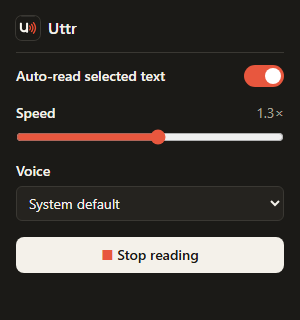
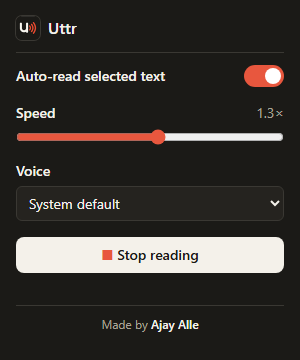
Add author credit (Ajay Alle), bump to v0.1.1
- Popup footer: "Made by Ajay Alle" linking to the GitHub repo
- README: author byline under the title and an Author section
- HOW-TO-INSTALL.txt: author line
- Refreshed popup screenshots

diff --git a/popup/popup.html b/popup/popup.html
@@ -45,6 +45,11 @@
   <!-- Short messages (e.g. "can't run on this page"). role="status" makes screen readers announce them. -->
   <p id="status" class="status" role="status"></p>
 
+  <!-- target="_blank" makes the link open in a new browser tab instead of inside the popup. -->
+  <footer>
+    Made by <a href="https://github.com/ajayalle10/uttr" target="_blank" rel="noopener">Ajay Alle</a>
+  </footer>
+
   <!--
     Manifest V3 forbids inline <script> code for security, so all logic lives
     in separate files. defaults.js must load first because popup.js uses it.

diff --git a/popup/popup.css b/popup/popup.css
@@ -200,6 +200,26 @@ button:hover {
   color: var(--accent);
 }
 
+footer {
+  margin-top: 12px;
+  padding-top: 10px;
+  border-top: 1px solid var(--border);
+  color: var(--muted);
+  font-size: 12px;
+  text-align: center;
+}
+
+footer a {
+  color: var(--text);
+  font-weight: 600;
+  text-decoration: none;
+}
+
+footer a:hover {
+  color: var(--accent);
+  text-decoration: underline;
+}
+
 .status {
   min-height: 1em;
   margin: 8px 0 0;

diff --git a/README.md b/README.md
@@ -6,7 +6,8 @@
 
 <p align="center">
   <strong>Select text. Hear it.</strong><br>
-  A lightweight Chrome extension that reads any text aloud the moment you highlight it.
+  A lightweight Chrome extension that reads any text aloud the moment you highlight it.<br>
+  <sub>by <strong>Ajay Alle</strong></sub>
 </p>
 
 <p align="center">
@@ -45,6 +46,7 @@
 17. [Known limitations](#known-limitations)
 18. [Future improvements](#future-improvements)
 19. [What I learned](#what-i-learned)
+20. [Author](#author)
 
 ---
 
@@ -466,8 +468,16 @@ Uttr is tested manually against this checklist. Reload the extension and refresh
 - **Asynchronous browser APIs**, such as voices that load late.
 - **Building for users:** handling accidental input, failing gracefully, and meeting accessibility contrast standards in both themes.
 
+## Author
+
+**Ajay Alle**: designed and built Uttr.
+
+- GitHub: [@ajayalle10](https://github.com/ajayalle10)
+
+Feedback, bug reports and feature ideas are welcome. Please [open an issue](https://github.com/ajayalle10/uttr/issues).
+
 ---
 
 <p align="center">
-  Built by <a href="https://github.com/ajayalle10">@ajayalle10</a>
+  Made by <strong>Ajay Alle</strong> · <a href="https://github.com/ajayalle10">@ajayalle10</a>
 </p>
